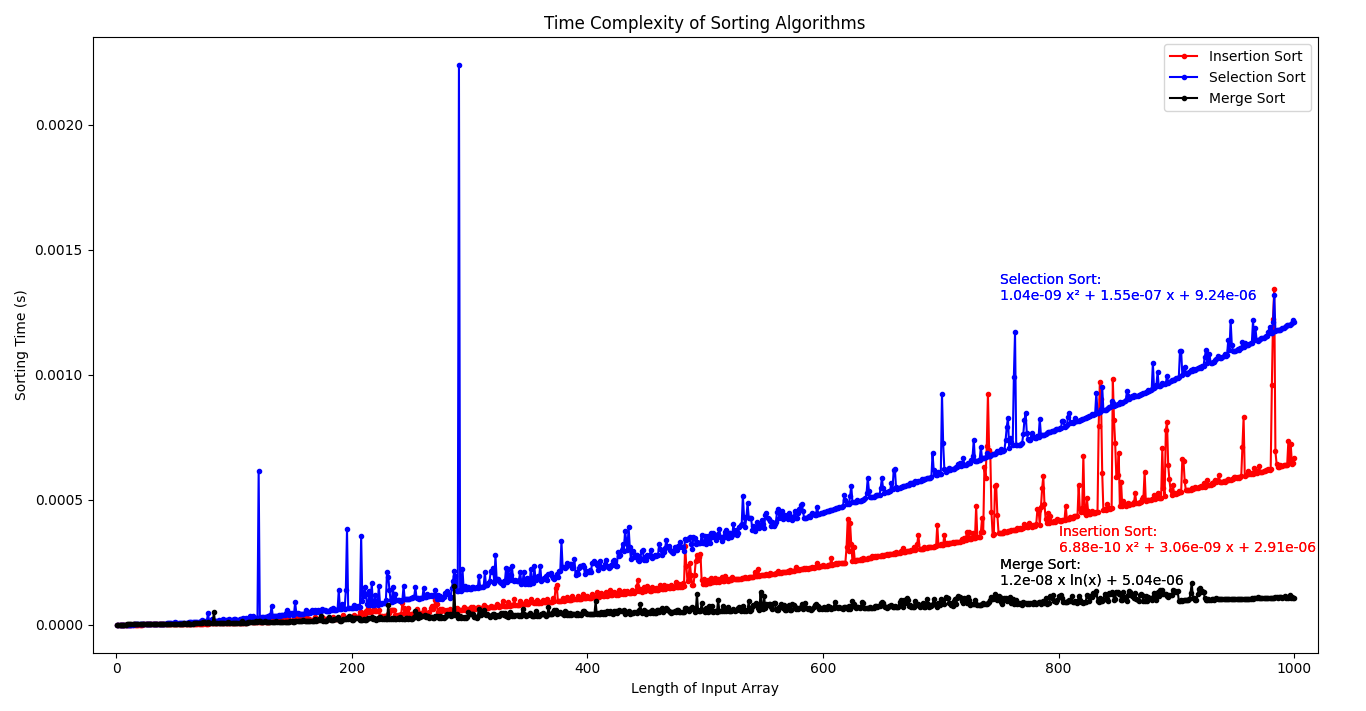
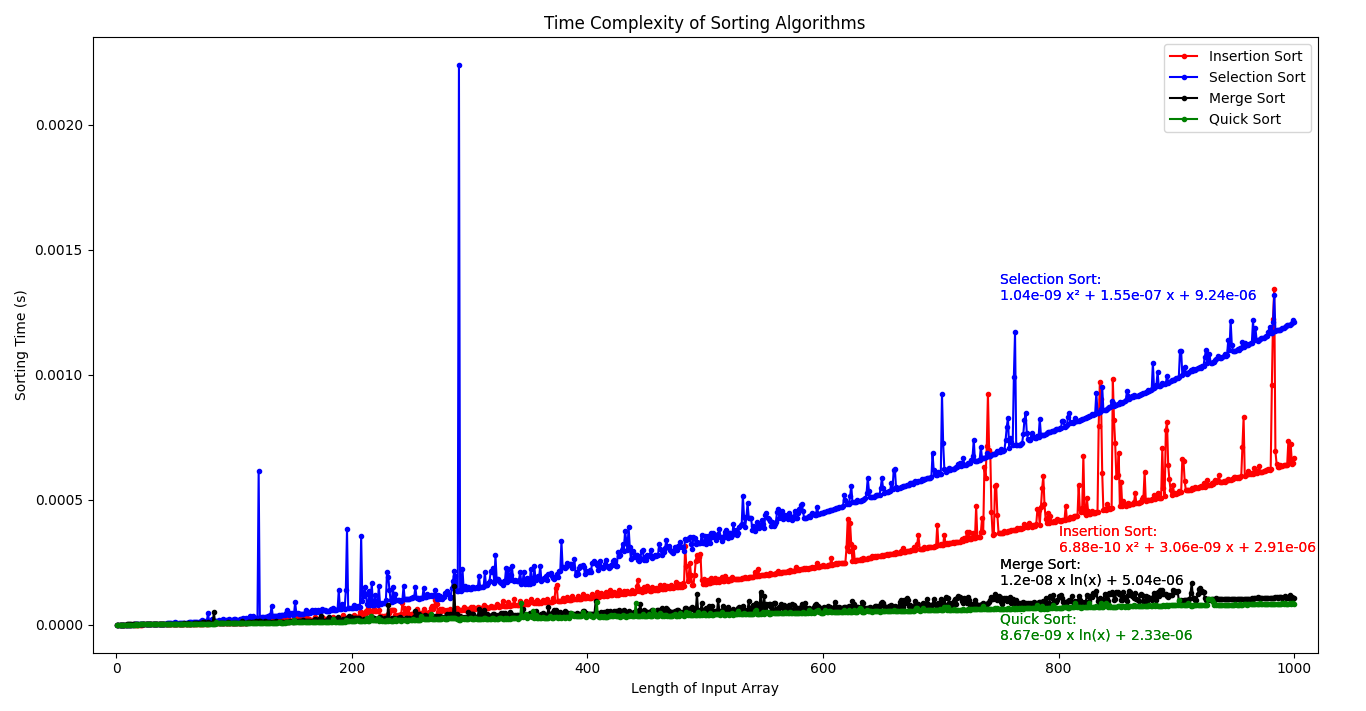
Add Quick Sort to Asgn2

Changed region(s): [[0.0922, 0.8354, 0.9531, 0.8973], [0.8609, 0.1547, 0.9531, 0.1857]]

diff --git a/asgn2/sortingAlgorithms.cpp b/asgn2/sortingAlgorithms.cpp
@@ -90,11 +90,45 @@ void mergeSort(int a[], int left, int right){
   merge(a, left, mid, right);
 }
 
+int partition(int a[], int left, int right){
+  int pivot = a[right];
+  int i = left-1;
+  for(int j = left; j < right; j++){
+    if (a[j] <= pivot){
+      i++;
+      int temp = a[i];
+      a[i] = a[j];
+      a[j] = temp;
+    }
+  }
+  i++;
+  int temp = a[i];
+  a[i]=a[right];
+  a[right]=temp;
+  return i;
+}
+
+void quickSort(int a[], int left, int right){
+  if(left >= right)
+    return;
+  int p = partition(a, left, right);
+  quickSort(a, left, p-1);
+  quickSort(a, p+1, right);
+}
+
+void randomQuickSort(int a[], int left, int right){
+  if(left >= right)
+    return;
+  int p = partition(a, left, right);
+  quickSort(a, left, p-1);
+  quickSort(a, p+1, right);
+}
+
 int main() {
   int num_iter = 20;
   int max_size = 1000;
   ofstream myFile;
-  myFile.open("SelectionSortTimes.txt");
+  myFile.open("RandomQuickSortTimes.txt");
   for(int size = 1; size <= max_size; size++){ //loop over input sizes
     double t=0;
     for (int iter = 1; iter <= num_iter; iter++){ //different inputs for each size
@@ -120,7 +154,7 @@ int main() {
       
       //Sort and add time
       auto start = std::chrono::high_resolution_clock::now();
-      selectionSort(arr, size);
+      randomQuickSort(arr, 0, size-1);
       auto end = std::chrono::high_resolution_clock::now();
       std::chrono::duration<double> duration = end - start;
       t = t + duration.count();
